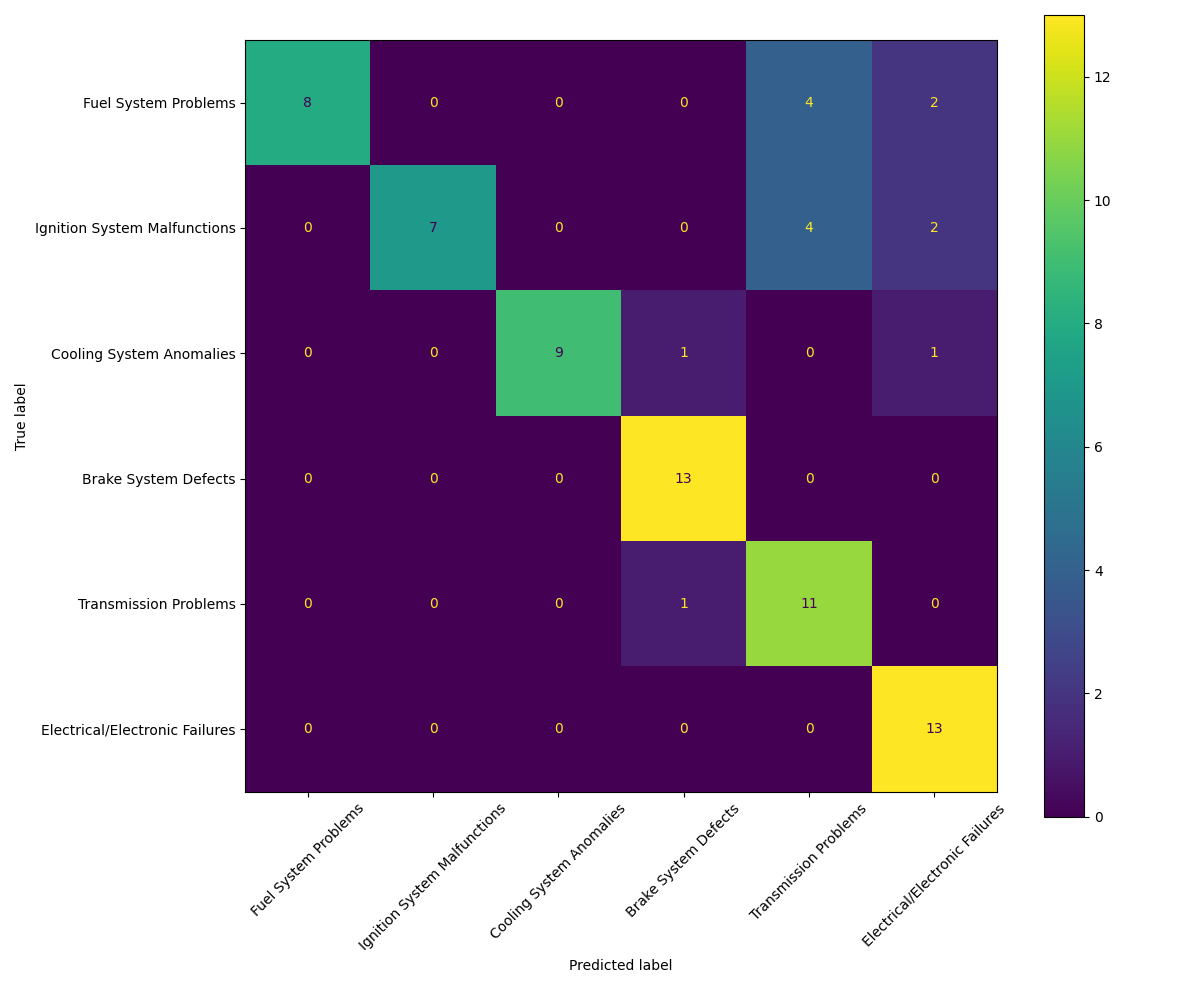
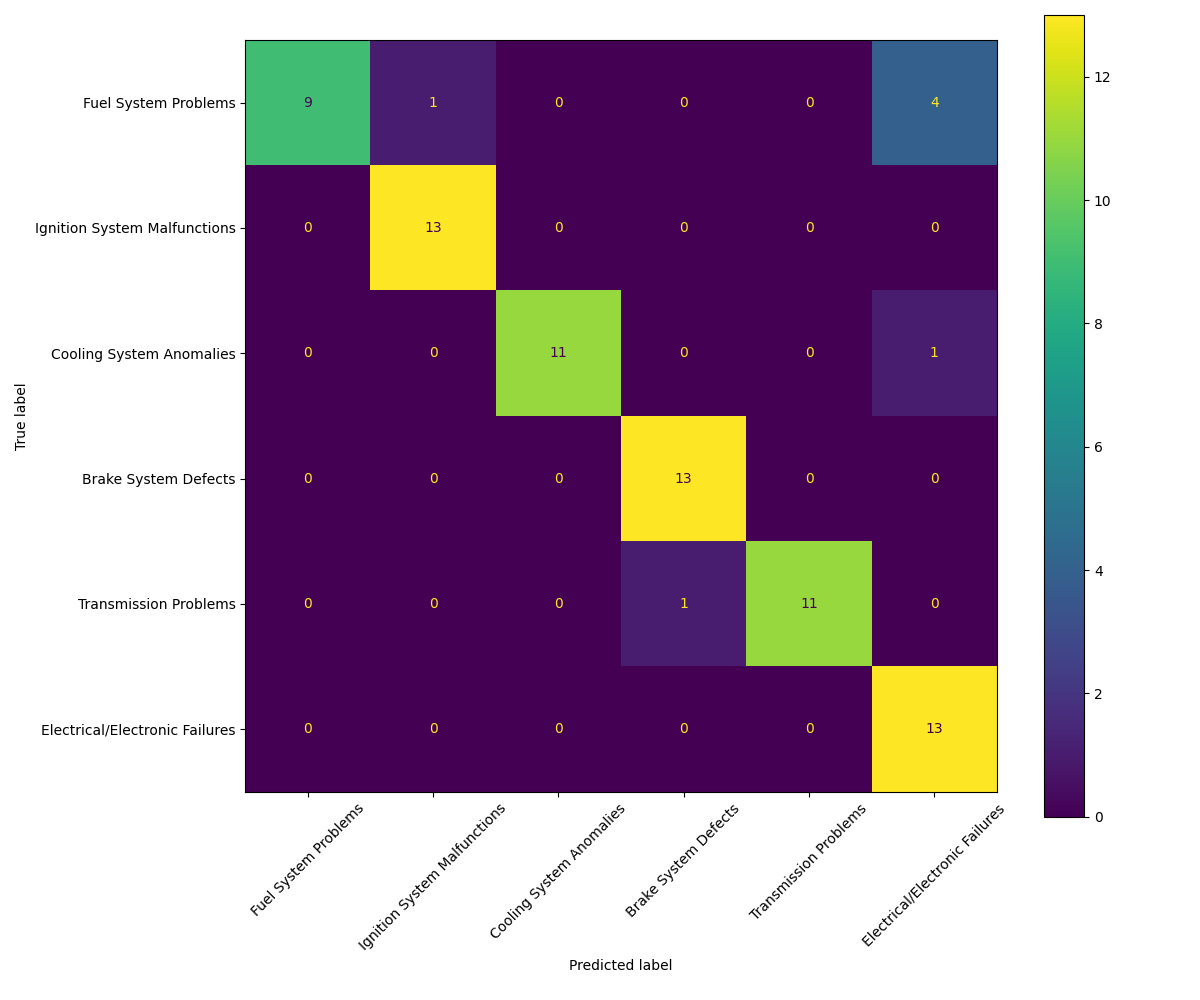
[fix] improved prompts, fix def-few mode

Changed region(s): [[0.185, 0.031, 0.8325, 0.434]]

diff --git a/finetuning.py b/finetuning.py
@@ -55,7 +55,7 @@ class FineTuningClassifier:
             "Electrical/Electronic Failures"
         ]
 
-        if test_mode == "few":
+        if test_mode == "few" or test_mode == "def-few":
             #Few-shot test with examples given INSIDE the prompt
             self.adjusted_example_pool_size = 1
 
@@ -80,16 +80,25 @@ class FineTuningClassifier:
         :param examples:
         :return:
         """
-        prompt = (
-            f"Classify the following automotive failure into one of these categories: \n"
-            f"{', '.join(self.categories)}.\n\n"
+        # prompt = (  #circa 73% con gemma3 **
+        #     f"Classify the following automotive failure into one of these categories: \n"
+        #     f"{', '.join(self.categories)}.\n\n"
+        # )
+
+        prompt = (  #circa 88% con gemma3
+            f"Classify the following automotive failure: "
+            f"{phrase}\n"
+            "into one of these categories: "
+            f"{', '.join(self.categories)}.\n"
+            "using the following examples:\n"
         )
+
         if self.adjusted_example_pool_size > 0:
             prompt += f"Examples:\n"
             for example in examples:
                 prompt += f"Failure: {example['phrase']}\nCategory: {example['category']}\n\n"
 
-        prompt += f"Failure: {phrase}\nCategory:"
+        # prompt += f"Failure: {phrase}\nCategory:" #circa 73% con gemma3 **
         return prompt
 
 
@@ -99,12 +108,18 @@ class FineTuningClassifier:
         :param phrase:
         :return:
         """
-        prompt = (
-            f"Classify the following automotive failure into one of these categories:\n"
-            f"{', '.join(self.categories)}.\n\n"
-            f"Failure: {phrase}\nCategory:"
-        )
+        # prompt = (  #circa 76% con gemma 3
+        #     f"Classify the following automotive failure into one of these categories:\n"
+        #     f"{', '.join(self.categories)}.\n\n"
+        #     f"Failure: {phrase}\nCategory:"
+        # )
 
+        prompt = (  #circa 90.91% con gemma 3
+            f"Classify the following automotive failure: "
+            f"{phrase}\n"
+            "into one of these categories: "
+            f"{', '.join(self.categories)}.\n\n"
+        )
 
         return prompt
 
@@ -115,30 +130,30 @@ class FineTuningClassifier:
         :param phrase:
         :return:
         """
-        prompt = (  #circa 49% acc
-            f"Classify the following automotive failure into one of these categories:\n"
-            f"{', '.join(self.categories)}.\n\n"  
-            f"Definitions of the categories:\n"
-            "Fuel System Problems: Issues related to the delivery, regulation, or combustion of fuel in the engine. These problems can arise from components such as the fuel pump, fuel injectors, fuel filter, or fuel lines. Symptoms often include poor fuel efficiency, engine stalling, or difficulty starting. \n",
-            "Ignition System Malfunctions: Faults within the system responsible for igniting the air-fuel mixture in the engine's cylinders. This includes components like spark plugs, ignition coils, distributor caps, and crankshaft position sensors. Common symptoms include misfires, difficulty starting, or rough idling. \n",
-            "Cooling System Anomalies: Problems affecting the system that regulates engine temperature to prevent overheating. Components include the radiator, water pump, thermostat, and coolant hoses. Indicators of issues are engine overheating, coolant leaks, or insufficient heating in the cabin.\n",
-            "Brake System Defects: Malfunctions in the braking system that affect the vehicle's ability to slow down or stop safely. This includes defects in brake pads, rotors, calipers, or hydraulic components like the master cylinder. Symptoms include squealing noises, vibrations, or reduced braking effectiveness.\n",
-            "Transmission Problems: Issues within the system responsible for transmitting power from the engine to the wheels, including automatic or manual transmissions. Common problems involve slipping gears, delayed shifting, or leaks in the transmission fluid. Symptoms include unusual noises and difficulty in shifting gears.\n",
-            "Electrical/Electronic Failures: Faults in the vehicle's electrical or electronic systems, including the battery, alternator, wiring, or onboard computers. These can manifest as flickering lights, dead batteries, or malfunctioning electronic components like power windows or dashboard instruments.\n\n"
-            f"Failure: {phrase}\nCategory:"
-        )
+        # prompt = (
+        #     f"Classify the automotive failure into one of these categories:\n"
+        #     f"{', '.join(self.categories)}.\n"
+        #     f"Definitions of the categories:\n"
+        #     "Fuel System Problems: Issues related to the delivery, regulation, or combustion of fuel in the engine. These problems can arise from components such as the fuel pump, fuel injectors, fuel filter, or fuel lines. Symptoms often include poor fuel efficiency, engine stalling, or difficulty starting. \n"
+        #     "Ignition System Malfunctions: Faults within the system responsible for igniting the air-fuel mixture in the engine's cylinders. This includes components like spark plugs, ignition coils, distributor caps, and crankshaft position sensors. Common symptoms include misfires, difficulty starting, or rough idling. \n"
+        #     "Cooling System Anomalies: Problems affecting the system that regulates engine temperature to prevent overheating. Components include the radiator, water pump, thermostat, and coolant hoses. Indicators of issues are engine overheating, coolant leaks, or insufficient heating in the cabin.\n"
+        #     "Brake System Defects: Malfunctions in the braking system that affect the vehicle's ability to slow down or stop safely. This includes defects in brake pads, rotors, calipers, or hydraulic components like the master cylinder. Symptoms include squealing noises, vibrations, or reduced braking effectiveness.\n"
+        #     "Transmission Problems: Issues within the system responsible for transmitting power from the engine to the wheels, including automatic or manual transmissions. Common problems involve slipping gears, delayed shifting, or leaks in the transmission fluid. Symptoms include unusual noises and difficulty in shifting gears.\n"
+        #     "Electrical/Electronic Failures: Faults in the vehicle's electrical or electronic systems, including the battery, alternator, wiring, or onboard computers. These can manifest as flickering lights, dead batteries, or malfunctioning electronic components like power windows or dashboard instruments.\n"
+        #     f"Failure: {phrase}\nCategory:"
+        # )
 
-        prompt = (  #circa 51% acc
-            f"Classify the following automotive failure: ",
-            f"{phrase}\n",
-            "into one of these categories: ",
-            f"{', '.join(self.categories)}.\n\n",
-            "   using the following definitions:\n",
-            "Fuel System Problems: Issues related to the delivery, regulation, or combustion of fuel in the engine. These problems can arise from components such as the fuel pump, fuel injectors, fuel filter, or fuel lines. Symptoms often include poor fuel efficiency, engine stalling, or difficulty starting. \n",
-            "Ignition System Malfunctions: Faults within the system responsible for igniting the air-fuel mixture in the engine's cylinders. This includes components like spark plugs, ignition coils, distributor caps, and crankshaft position sensors. Common symptoms include misfires, difficulty starting, or rough idling. \n",
-            "Cooling System Anomalies: Problems affecting the system that regulates engine temperature to prevent overheating. Components include the radiator, water pump, thermostat, and coolant hoses. Indicators of issues are engine overheating, coolant leaks, or insufficient heating in the cabin.\n",
-            "Brake System Defects: Malfunctions in the braking system that affect the vehicle's ability to slow down or stop safely. This includes defects in brake pads, rotors, calipers, or hydraulic components like the master cylinder. Symptoms include squealing noises, vibrations, or reduced braking effectiveness.\n",
-            "Transmission Problems: Issues within the system responsible for transmitting power from the engine to the wheels, including automatic or manual transmissions. Common problems involve slipping gears, delayed shifting, or leaks in the transmission fluid. Symptoms include unusual noises and difficulty in shifting gears.\n",
+        prompt = (
+            f"Classify the following automotive failure: "
+            f"{phrase}\n"
+            "into one of these categories: "
+            f"{', '.join(self.categories)}.\n\n"
+            "using the following definitions:\n"
+            "Fuel System Problems: Issues related to the delivery, regulation, or combustion of fuel in the engine. These problems can arise from components such as the fuel pump, fuel injectors, fuel filter, or fuel lines. Symptoms often include poor fuel efficiency, engine stalling, or difficulty starting. \n"
+            "Ignition System Malfunctions: Faults within the system responsible for igniting the air-fuel mixture in the engine's cylinders. This includes components like spark plugs, ignition coils, distributor caps, and crankshaft position sensors. Common symptoms include misfires, difficulty starting, or rough idling. \n"
+            "Cooling System Anomalies: Problems affecting the system that regulates engine temperature to prevent overheating. Components include the radiator, water pump, thermostat, and coolant hoses. Indicators of issues are engine overheating, coolant leaks, or insufficient heating in the cabin.\n"
+            "Brake System Defects: Malfunctions in the braking system that affect the vehicle's ability to slow down or stop safely. This includes defects in brake pads, rotors, calipers, or hydraulic components like the master cylinder. Symptoms include squealing noises, vibrations, or reduced braking effectiveness.\n"
+            "Transmission Problems: Issues within the system responsible for transmitting power from the engine to the wheels, including automatic or manual transmissions. Common problems involve slipping gears, delayed shifting, or leaks in the transmission fluid. Symptoms include unusual noises and difficulty in shifting gears.\n"
             "Electrical/Electronic Failures: Faults in the vehicle's electrical or electronic systems, including the battery, alternator, wiring, or onboard computers. These can manifest as flickering lights, dead batteries, or malfunctioning electronic components like power windows or dashboard instruments. \n"
         )
 
@@ -152,21 +167,21 @@ class FineTuningClassifier:
         :return:
         """
         prompt = (  #circa 51% acc
-            f"Classify the following automotive failure: ",
-            f"{phrase}\n",
-            "into one of these categories: ",
-            f"{', '.join(self.categories)}.\n\n",
-            "   using the following definitions:\n",
-            "Fuel System Problems: Issues related to the delivery, regulation, or combustion of fuel in the engine. These problems can arise from components such as the fuel pump, fuel injectors, fuel filter, or fuel lines. Symptoms often include poor fuel efficiency, engine stalling, or difficulty starting. \n",
-            "Ignition System Malfunctions: Faults within the system responsible for igniting the air-fuel mixture in the engine's cylinders. This includes components like spark plugs, ignition coils, distributor caps, and crankshaft position sensors. Common symptoms include misfires, difficulty starting, or rough idling. \n",
-            "Cooling System Anomalies: Problems affecting the system that regulates engine temperature to prevent overheating. Components include the radiator, water pump, thermostat, and coolant hoses. Indicators of issues are engine overheating, coolant leaks, or insufficient heating in the cabin.\n",
-            "Brake System Defects: Malfunctions in the braking system that affect the vehicle's ability to slow down or stop safely. This includes defects in brake pads, rotors, calipers, or hydraulic components like the master cylinder. Symptoms include squealing noises, vibrations, or reduced braking effectiveness.\n",
-            "Transmission Problems: Issues within the system responsible for transmitting power from the engine to the wheels, including automatic or manual transmissions. Common problems involve slipping gears, delayed shifting, or leaks in the transmission fluid. Symptoms include unusual noises and difficulty in shifting gears.\n",
+            f"Classify the following automotive failure: "
+            f"{phrase}\n"
+            "into one of these categories: "
+            f"{', '.join(self.categories)}.\n\n"
+            "   using the following definitions:\n"
+            "Fuel System Problems: Issues related to the delivery, regulation, or combustion of fuel in the engine. These problems can arise from components such as the fuel pump, fuel injectors, fuel filter, or fuel lines. Symptoms often include poor fuel efficiency, engine stalling, or difficulty starting. \n"
+            "Ignition System Malfunctions: Faults within the system responsible for igniting the air-fuel mixture in the engine's cylinders. This includes components like spark plugs, ignition coils, distributor caps, and crankshaft position sensors. Common symptoms include misfires, difficulty starting, or rough idling. \n"
+            "Cooling System Anomalies: Problems affecting the system that regulates engine temperature to prevent overheating. Components include the radiator, water pump, thermostat, and coolant hoses. Indicators of issues are engine overheating, coolant leaks, or insufficient heating in the cabin.\n"
+            "Brake System Defects: Malfunctions in the braking system that affect the vehicle's ability to slow down or stop safely. This includes defects in brake pads, rotors, calipers, or hydraulic components like the master cylinder. Symptoms include squealing noises, vibrations, or reduced braking effectiveness.\n"
+            "Transmission Problems: Issues within the system responsible for transmitting power from the engine to the wheels, including automatic or manual transmissions. Common problems involve slipping gears, delayed shifting, or leaks in the transmission fluid. Symptoms include unusual noises and difficulty in shifting gears.\n"
             "Electrical/Electronic Failures: Faults in the vehicle's electrical or electronic systems, including the battery, alternator, wiring, or onboard computers. These can manifest as flickering lights, dead batteries, or malfunctioning electronic components like power windows or dashboard instruments. \n"
+            "Examples:\n"
         )
 
         if self.adjusted_example_pool_size > 0:
-            prompt += f"Examples:\n"
             for example in examples:
                 prompt += f"Failure: {example['phrase']}\nCategory: {example['category']}\n\n"
 
@@ -364,7 +379,7 @@ if __name__ == "__main__":
     parser.add_argument(
         "--examples_path",
         type=str,
-        default="examples.csv",
+        default="context_examples.csv",
         choices=["examples.csv", "context_examples.csv"],
         help="Path to the examples CSV file. Default is 'examples.csv'."
     )
@@ -383,9 +398,9 @@ if __name__ == "__main__":
 
     classifier = FineTuningClassifier(
         model = args.model,
-        dataset_path = "dataset.csv",  # You can add this to args as well
+        dataset_path = "dataset.csv",
         examples_path = args.examples_path,
-        csv_result_file = "./accuracy_example_pool_sizes.csv",  # Add to args if dynamic
+        csv_result_file = "./accuracy_example_pool_sizes.csv",
         test_mode = args.test_mode
     )
 
